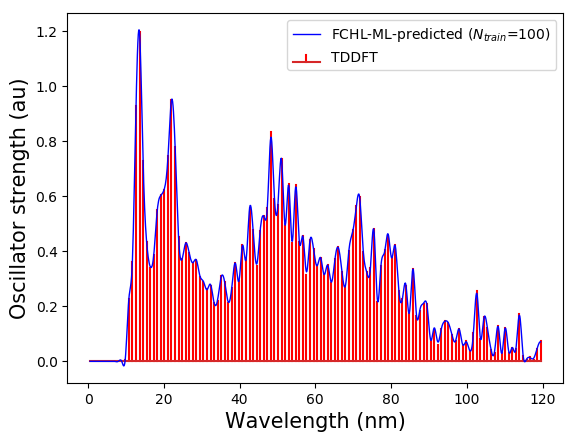
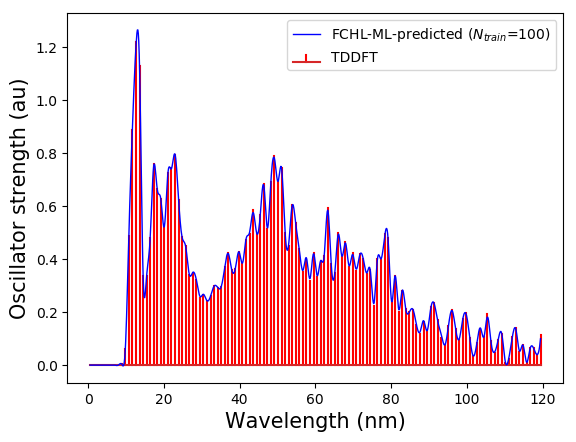
rr: test_003

diff --git a/example_scripts/test_003/inp.py b/example_scripts/test_003/inp.py
@@ -1,4 +1,5 @@
 import qmlspectrum
+import numpy as np
 
 #== Inputs
 
@@ -39,6 +40,9 @@ N_mol, max_size, X = qmlspectrum.qml_fchl_rep(geom_path, read_X, file_X, cut_dis
 #=== Bin spectra for all molecules
 lam,Int_lam=qmlspectrum.bin_spectra_uniform(spec_path, read_P, file_P, wavelength_min, wavelength_max, N_bin)
 
+for i_mol in range(N_mol):
+    Int_lam[i_mol,:]=Int_lam[i_mol,:]/np.sum(Int_lam[i_mol,:])
+
 #=== Shuffle
 indices=qmlspectrum.shuffle(load_indices, file_indices, N_mol)
 
@@ -57,32 +61,23 @@ alpha=qmlspectrum.linalg_solve(N_bin,K,P,'train_spec_00100.txt','coeffs_00100.tx
 
 iquery=0
 Int_pred=qmlspectrum.predict(X,alpha,indices,iquery,max_size,sigmas,cut_distance)
-
 Int_TDDFT=Int_lam[indices[iquery],:]
-
-# Plot a TDDFT stick spectrum along with a smooth ML predicted spectrum
-label1='TDDFT'
-label2='FCHL-ML-predicted ($N_{train}$='+ str(N_train) +')'
-label=[label1, label2]
-qmlspectrum.plot_stem_smooth(lam,Int_TDDFT,Int_pred,label,'trainingmolecule_spectrum_ML_TDDFT.png')
-
-
+phi=qmlspectrum.confidence_score(Int_pred, Int_TDDFT)
+print('Confidence score for entry ', iquery,'= ',phi, ' %')
 
 iquery=5000
 Int_pred=qmlspectrum.predict(X,alpha,indices,iquery,max_size,sigmas,cut_distance)
-
 Int_TDDFT=Int_lam[indices[iquery],:]
+phi=qmlspectrum.confidence_score(Int_pred, Int_TDDFT)
+print('Confidence score for entry ', iquery,'= ',phi, ' %')
 
-# Plot a TDDFT stick spectrum along with a smooth ML predicted spectrum
-label1='TDDFT'
-label2='FCHL-ML-predicted ($N_{train}$='+ str(N_train) +')'
-label=[label1, label2]
-qmlspectrum.plot_stem_smooth(lam,Int_TDDFT,Int_pred,label,'newmolecule_spectrum_ML_TDDFT.png')
+#out_of_sample_score=0
+#for iquery in range(100,200):
+#    Int_pred=qmlspectrum.predict(X,alpha,indices,iquery,max_size,sigmas,cut_distance)
+#    Int_TDDFT=Int_lam[indices[iquery],:]
+#    phi=qmlspectrum.confidence_score(Int_pred, Int_TDDFT)
+#    out_of_sample_score=out_of_sample_score+phi
+#    print('Confidence score for entry ', iquery,'= ',phi, ' %')
 
+#print('Mean of confidence scores for entries between 100 and 200 is', out_of_sample_score/100, ' %' )
 
-#=== Other options for plotting
-# Plot a stick spectrum
-# qmlspectrum.plot_stem(lam,Int_TDDFT,'TDDFT','spectrum_TDDFT.png')
-
-# Plot a smooth spectrum
-# qmlspectrum.plot_smooth(lam,Int_TDDFT,'TDDFT','spectrum_TDDFT_smooth.png')

diff --git a/qmlspectrum/bin_spectra.py b/qmlspectrum/bin_spectra.py
@@ -27,9 +27,9 @@ def bin_spectra_uniform(spec_path, read_P, file_P, wavelength_min, wavelength_ma
             lambda_min.append( (i_bin)*dlambda )
             lambda_max.append( (i_bin+1)*dlambda )
             lam.append( (i_bin+1.0/2.0)*dlambda )
-        Int_lam=[]
         N_file=len(spec_files)
         i_file=0
+        Int_lam=np.zeros([N_file,N_bin])
         for spec_csv in spec_files:
             if np.mod(i_file, 100) == 0:
                 print(i_file,' out of ', N_file, ' done')
@@ -41,8 +41,7 @@ def bin_spectra_uniform(spec_path, read_P, file_P, wavelength_min, wavelength_ma
                 scr=f[(wavelength > lambda_min[i_bin] ) & (wavelength <= lambda_max[i_bin])]
                 sum_f[i_bin]=np.sum( scr )
             i_file=i_file+1
-            Int_lam.append(sum_f)
-        Int_lam=np.array(Int_lam)
+            Int_lam[ifile,i_bin]=sum_f
         np.save(file_P, Int_lam)
         print('data saved in ', file_P)
 

diff --git a/qmlspectrum/predict.py b/qmlspectrum/predict.py
@@ -7,8 +7,8 @@ def predict(X,alpha,indices,iquery,max_size,sigmas,cut_distance):
     
     K=np.zeros(N_train)
     for itrain in range(N_train):
-        if np.mod(itrain,50) == 0:
-           print(itrain, 'kernel elements between query and training molecules calculated, ', N_train-itrain, 'remaining')
+   #    if np.mod(itrain,50) == 0:
+   #       print(itrain, 'kernel elements between query and training molecules calculated, ', N_train-itrain, 'remaining')
         Xt=X[indices[itrain]]
         Xq=X[indices[iquery]]
         Yt=np.zeros([1,max_size,5,max_size],dtype=float)

diff --git a/setup.py b/setup.py
@@ -4,7 +4,7 @@ from setuptools import setup, find_packages
 HERE = pathlib.Path(__file__).parent
 
 PACKAGE_NAME = 'qmlspectrum'
-VERSION = '22.04.10'
+VERSION = '22.04.11'
 AUTHOR = 'Raghunathan Ramakrishnan'
 AUTHOR_EMAIL = 'raghu.rama.chem@gmail.com'
 URL = 'https://github.com/raghurama123/qmlspectrum'

diff --git a/qmlspectrum/__init__.py b/qmlspectrum/__init__.py
@@ -9,3 +9,4 @@ from .plot_spectrum import plot_stem_smooth
 from .predict import predict
 from .shuffle import shuffle
 from .prepare_trainingdata import prepare_trainingdata
+from .scores import confidence_score

diff --git a/example_scripts/test_003/README.md b/example_scripts/test_003/README.md
@@ -1,0 +1,12 @@
+Same as `test_002` but after prediction confidence score in prediction (in %) is calculated.   
+
+For the first molecule in the training example, the confidence score close to 100%
+
+For the out-of-sample molecule (`iquery=5000`, index=5000 after shuffling) it turns out to be slightly low.
+
+In one instance of shuffling, these were the scores obtained
+
+```
+Confidence score for entry  0 =  98.99813417950418  %
+Confidence score for entry  5000 =  74.20354724832409  %
+```
